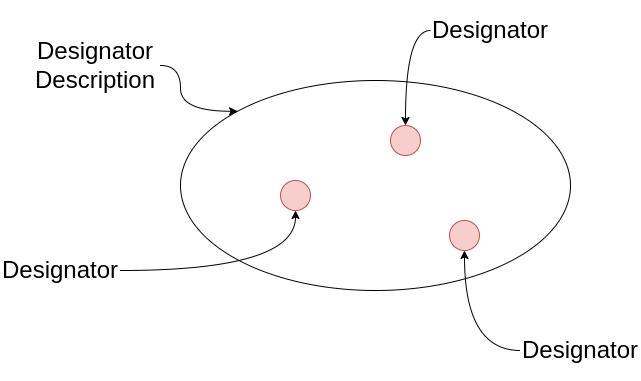
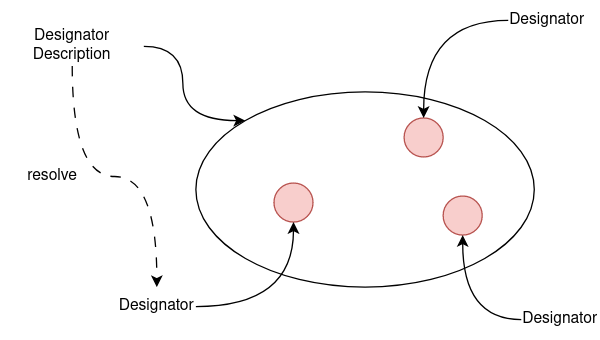
[doc] New high-level documentation for designator

diff --git a/doc/source/designators.rst b/doc/source/designators.rst
@@ -6,11 +6,55 @@ Designators
 
 Designators are CRAMs and PyCRAMs way of representing actions, motions, objects and locations.
 
-In general, CRAM-Designators consist of a description and a specified element.
+In general, PyCRAM-Designators consist of a description and a specified element.
 Descriptions describe sets of designators and designators are one thing in the described set.
+For example, such a description could describe an action where the robot moves to a location
+from where it can grasp an object. The specific location in this case is not relevant as long
+as the robot can reach the object.
+
+The designator description will be resolved during runtime which results in a designator with
+specific parameter, the resulting designator can also be performed to let the robot perform the
+desired behaviour.
+
+To stay on the example of an action designator which should move the robot to a location from
+where it can grasp an object, we will create a NavigateAction description with a list of possible
+poses.
+
+.. code-block:: python
+
+    poses = [[[1, 0, 0], [0, 0, 0, 1]], [[1.2, 0.2, 0], [0, 0, 1, 0]]]
+    NavigateAction(target_locations=poses)
+
+This is a description of an action which moves the robot to a pose in the environment.
+In this case the description describes a set of action designators which have a pose of the ``poses``
+list as target location.
+
+By resolving the description it will return a single designator with specific parameter.
+This can look like this:
+
+.. code-block:: python
+
+    designator = NavigateAction(target_locations=poses).resolve()
+
+The resolver will check the available parameter and return a designator with appropriate parameter
+which can then be performed. The designator returned by the resolver will always be a sub-class
+of the description, in this way the designator can be assigned the type of action it performs.
+The resolved designator can also contain new parameter which might be relevant for performing the
+designator and will be inferred while resolving. A resolved action designator for a navigate
+action looks like this:
+
+.. code-block:: python
+
+    NavigateAction.Action(robot_position=((0.0, 0.0, 0.0), (0.0, 0.0, 0.0, 1.0)), target_location=[[1, 0, 0], [0, 0, 0, 1]])
+
+
+A visual representation of the whole idea of designator and designator descriptions can be
+seen in the following image.
 
 .. image:: ../images/designators.png
    :alt: Schematic representation of Designators.
+
+
 
 There are four types of designators in PyCRAM:
 
@@ -22,17 +66,17 @@ There are four types of designators in PyCRAM:
 Object Designator
 =================
 
-Object designators correspond to objects in (simulated) world.
+Object designators represent objects in (simulated) world.
 The description of object designators can take names and types that the object should match.
-The :meth:`pycram.designators.object_designator.ObjectDesignatorDescription.ground` method returns an object with all
+The :meth:`~pycram.designators.object_designator.ObjectDesignatorDescription.ground` method returns an object with all
 its data attached that matches the description.
-The :meth:`pycram.designators.object_designator.ObjectDesignatorDescription.__iter__` method iterates over all objects
+The :meth:`~pycram.designators.object_designator.ObjectDesignatorDescription.__iter__` method iterates over all objects
 that match the description.
 
 Contributing Object Designators
 -------------------------------
 Object Designators should always be part of an object designator description.
-The general class structure is seen in :mod:`pycram.designators.object_designator.ObjectDesignatorDescription`.
+The general class structure is seen in :mod:`~pycram.designators.object_designator.ObjectDesignatorDescription`.
 New object description need to inherit from the general object description. If the object they ground to differs from
 the base object, a `dataclass <https://docs.python.org/3/library/dataclasses.html>`_. should be created inside the new
 description. The dataclass is one element that matches the description.
@@ -44,12 +88,44 @@ Action Designator
 =================
 Action designators describe complex actions that are executable for an agent. Action designators can be seen as higher
 level plans that include failure handling and parametrization.
-An action
+An action designator description always takes the parameter as a list of possible parameter, when
+resolving the description to a single designator one parameter out of the given list will be picked.
 
 Motion Designator
 =================
-Motion designators describe atomic actions that are executable for an agent
+Motion designators describe atomic actions that are executable for an agent. In contrast to action
+designators there is no failure handling or other action designators. Furthermore, the :meth:`~pycram.designators.motion_designator.MotionDesignatorDescription.Motion.perform`
+method passes the resolved motion designator to the respective Process Module for execution on the robot.
+
+Another difference to action designator is that motion designators only take a single parameter instead of a
+list, this parameter is also strictly typed.
 
 Location Designator
 ===================
+Location designator describe a set of locations in regards to specific constrains. These constrains can be things
+like ``reachable`` or ``visible``. The pose returned by a location designator is a single pose of the set defined
+by the constrains given to the location designator description.
+
+Similar to object designator poses location designator also a :meth:`~pycram.designators.location_designator.CostmapLocation.__iter__`
+method which can iterate over all possible solutions for this description.
+
+Creating your own Designator
+============================
+Creating your own designator is fairly easy, you only need to extend the base class of the respective description.
+
+ - :mod:`~pycram.designators.action_designator.ActionDesignatorDescription`
+ - :mod:`~pycram.designators.object_designator.ObjectDesignatorDescription`
+ - :mod:`~pycram.designators.location_designator.LocationDesignatorDescription`
+ - :mod:`~pycram.designators.motion_designator.MotionDesignatorDescription`
+
+Afterwards you need to implement your own ``ground`` method which is the default resolver and for location and object
+designator it makes sense to also implement a ``__iter__`` method. The ``ground`` and ``__iter__`` methods should return
+the designator sub-class so you also need to implement these with the parameter your designator needs.
+
+The sub-class can already contain some parameters, this is usually the case if the parameter is the same for every designator
+of this type. For example, :mod:`pycram.designators.location_designator.LocationDesignatorDescription.Location`
+contains a ``pose`` parameter since every location designator contains a resolved pose.
+
+For action and motion designator the sub-class is also the place where the ``perform`` method is written which contains
+the behaviour of the designator.
 
